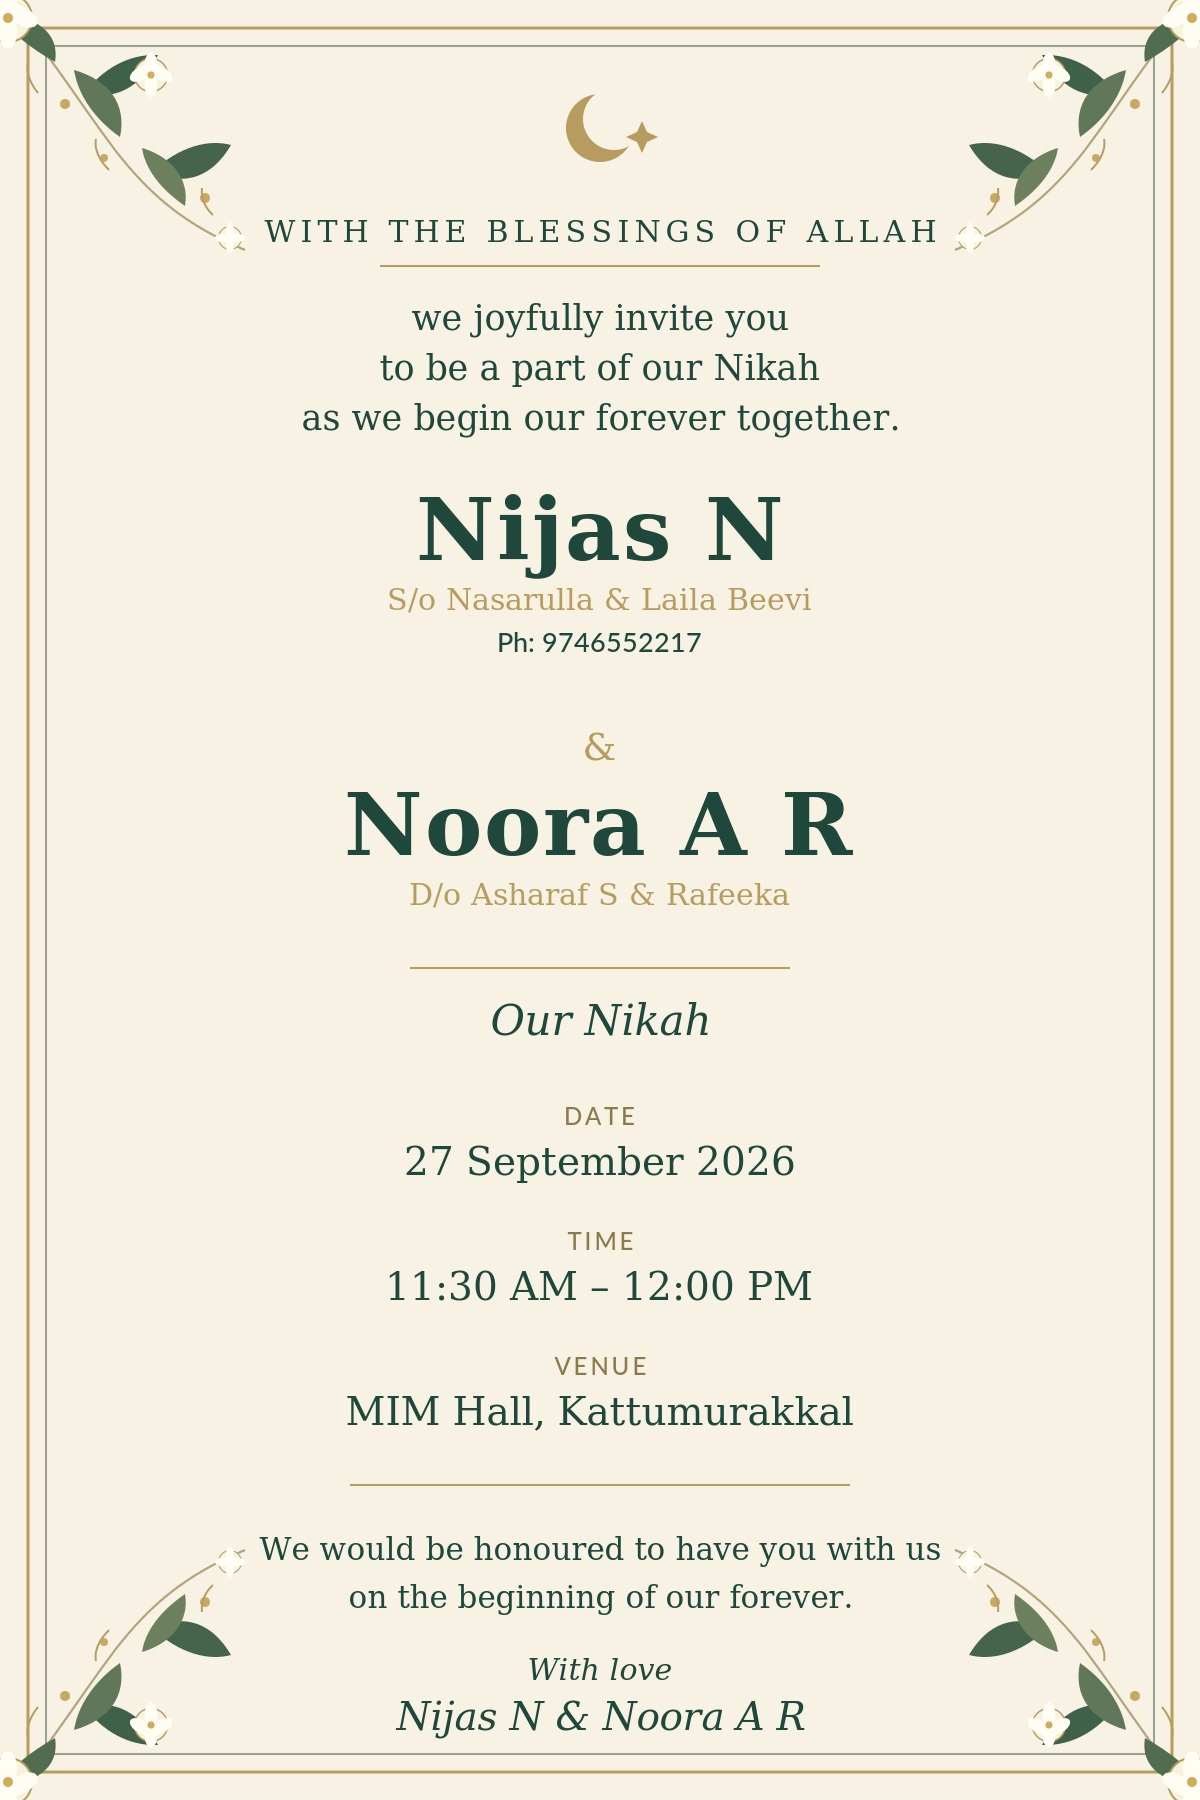
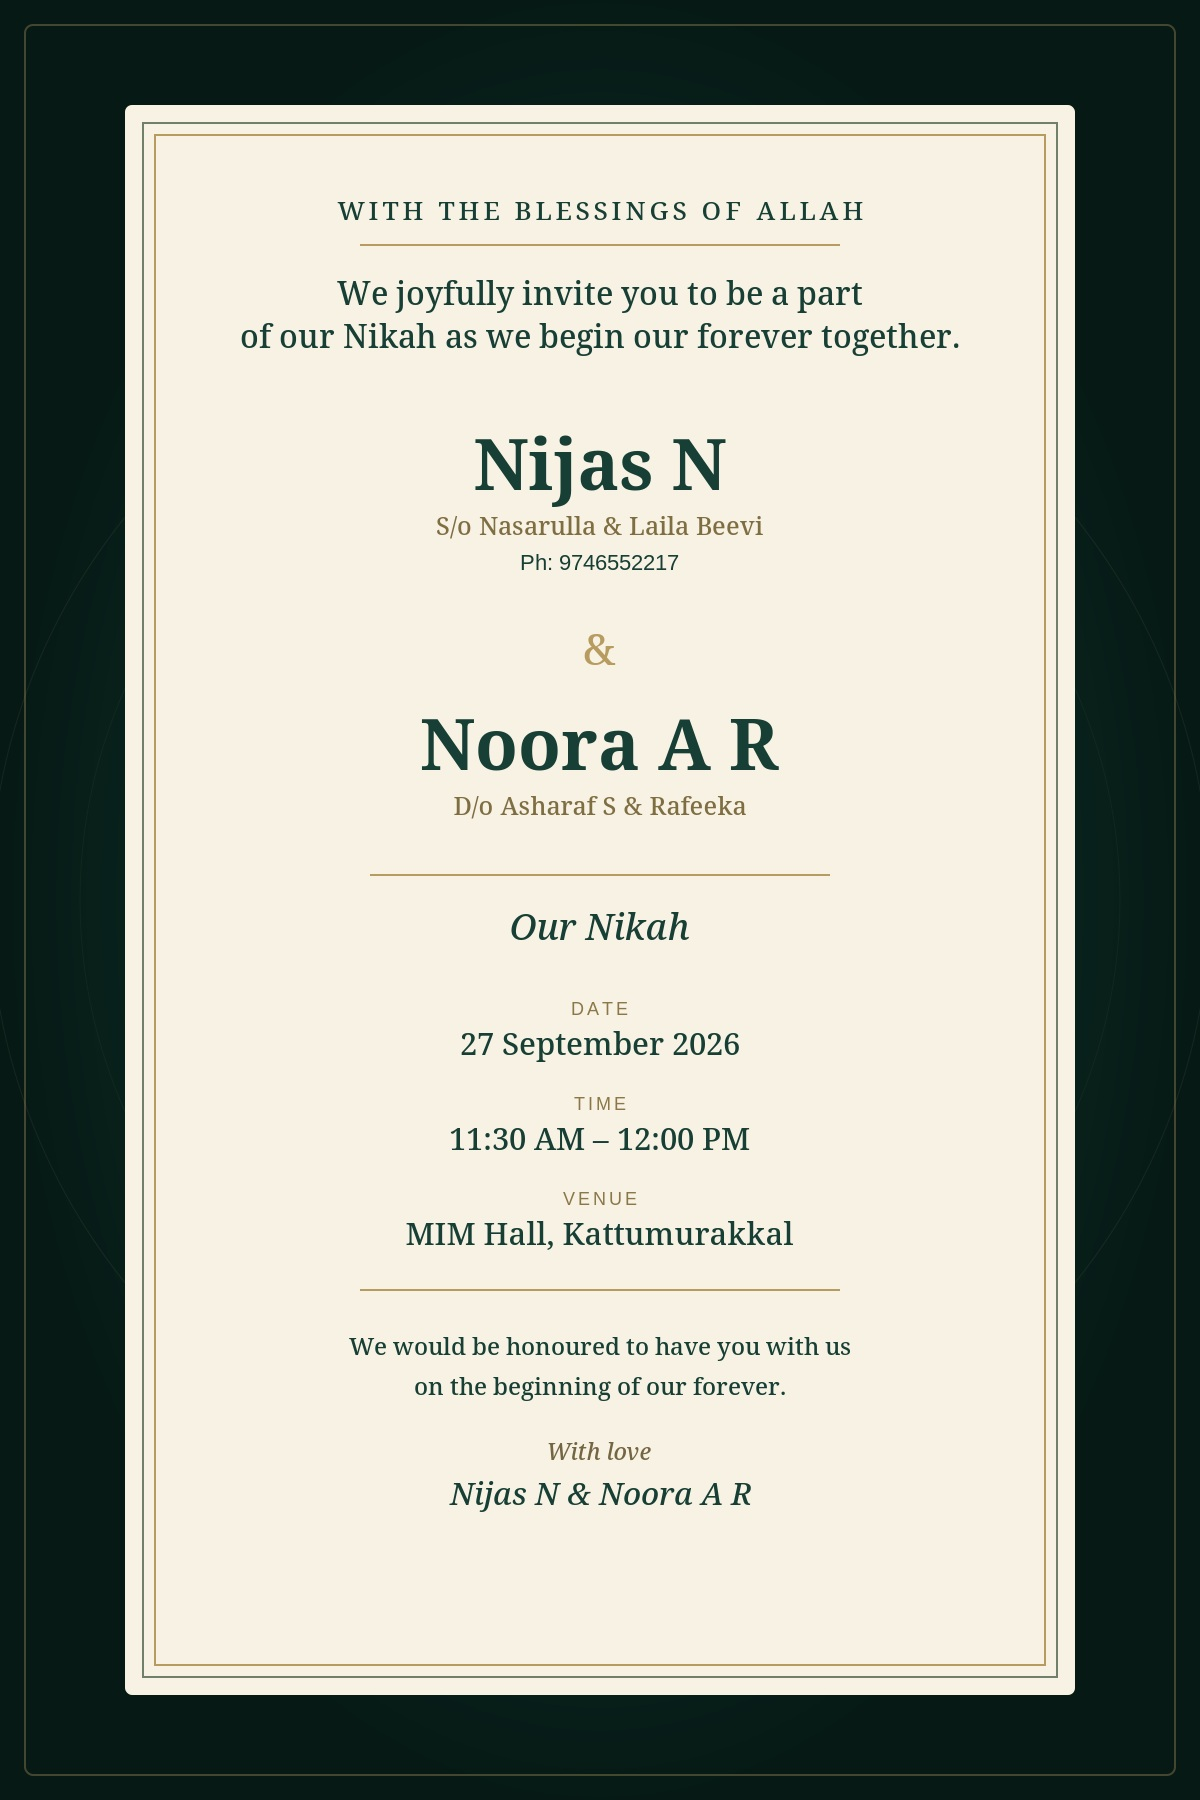
v2

diff --git a/style.css b/style.css
@@ -120,9 +120,24 @@ button,a{font:inherit}
   display:none;
   min-height:100vh;
   padding:34px 18px;
+  position:relative;
+  overflow:hidden;
   background:
-    radial-gradient(circle at 15% 10%,rgba(255,255,255,.55),transparent 20%),
-    linear-gradient(135deg,#eee7d6,#faf7ee 48%,#eee7d6);
+    radial-gradient(circle at 50% 45%,rgba(183,155,95,.18),transparent 18%),
+    radial-gradient(circle at 8% 12%,rgba(255,255,255,.055),transparent 22%),
+    radial-gradient(circle at 92% 88%,rgba(216,194,138,.08),transparent 24%),
+    linear-gradient(135deg,#071d19 0%,#0d3028 42%,#09231f 72%,#061915 100%);
+}
+.invitation:before{
+  content:"";position:absolute;inset:18px;
+  border:1px solid rgba(183,155,95,.24);border-radius:8px;pointer-events:none;
+}
+.invitation:after{
+  content:"";position:absolute;width:76vw;height:76vw;max-width:900px;max-height:900px;
+  border:1px solid rgba(216,194,138,.11);border-radius:50%;left:50%;top:50%;
+  transform:translate(-50%,-50%);
+  box-shadow:0 0 0 70px rgba(216,194,138,.025),0 0 0 140px rgba(216,194,138,.018);
+  pointer-events:none;
 }
 .invitation.show{display:block;animation:reveal .8s ease both}
 @keyframes reveal{from{opacity:0;transform:translateY(20px)}to{opacity:1;transform:none}}
@@ -137,7 +152,7 @@ button,a{font:inherit}
     radial-gradient(circle at 50% 35%,rgba(255,255,255,.55),transparent 36%),
     var(--cream);
   border:2px solid var(--gold);
-  box-shadow:0 22px 70px rgba(29,43,35,.16);
+  box-shadow:0 28px 90px rgba(0,0,0,.38),0 0 0 1px rgba(216,194,138,.12);
   text-align:center;
 }
 .card:before{
@@ -277,3 +292,12 @@ button,a{font:inherit}
   .detail strong{font-size:19px}
   .card:before{inset:9px}
 }
+
+.countdown{width:min(560px,100%);margin:4px auto 0;padding:18px 14px 16px;border-top:1px solid rgba(183,155,95,.5);border-bottom:1px solid rgba(183,155,95,.5);background:rgba(183,155,95,.055)}
+.countdown-title{margin:0 0 13px;color:#8b7747;font-size:10px;letter-spacing:3px;font-weight:600}
+.countdown-grid{display:grid;grid-template-columns:repeat(4,1fr);gap:8px}
+.countdown-grid div{position:relative;display:grid;gap:4px}
+.countdown-grid div+div:before{content:"";position:absolute;left:-5px;top:12%;height:76%;width:1px;background:rgba(183,155,95,.28)}
+.countdown-grid strong{font-family:"Playfair Display",serif;color:var(--forest);font-size:28px;font-weight:500;line-height:1}
+.countdown-grid span{color:#806e43;font-size:9px;letter-spacing:1.4px;text-transform:uppercase}
+@media (max-width:640px){.countdown{padding:15px 7px}.countdown-grid strong{font-size:23px}.countdown-grid span{font-size:8px;letter-spacing:1px}}

diff --git a/script.js b/script.js
@@ -1,19 +1,5 @@
-const openButton = document.getElementById("openInvite");
-const opening = document.getElementById("opening");
-const invitation = document.getElementById("invitation");
-
-openButton.addEventListener("click", () => {
-  opening.animate(
-    [
-      { opacity: 1, transform: "scale(1)" },
-      { opacity: 0, transform: "scale(1.03)" }
-    ],
-    { duration: 650, easing: "ease", fill: "forwards" }
-  );
-
-  setTimeout(() => {
-    opening.style.display = "none";
-    invitation.classList.add("show");
-    window.scrollTo({ top: 0, behavior: "smooth" });
-  }, 580);
-});
+const openButton=document.getElementById("openInvite"),opening=document.getElementById("opening"),invitation=document.getElementById("invitation");
+openButton.addEventListener("click",()=>{opening.animate([{opacity:1,transform:"scale(1)"},{opacity:0,transform:"scale(1.03)"}],{duration:650,easing:"ease",fill:"forwards"});setTimeout(()=>{opening.style.display="none";invitation.classList.add("show");window.scrollTo({top:0,behavior:"smooth"});},580);});
+const targetDate=new Date("2026-09-27T11:30:00+05:30").getTime();
+function updateCountdown(){let d=Math.max(0,targetDate-Date.now());document.getElementById("days").textContent=String(Math.floor(d/86400000)).padStart(2,"0");document.getElementById("hours").textContent=String(Math.floor(d%86400000/3600000)).padStart(2,"0");document.getElementById("minutes").textContent=String(Math.floor(d%3600000/60000)).padStart(2,"0");document.getElementById("seconds").textContent=String(Math.floor(d%60000/1000)).padStart(2,"0");}
+updateCountdown();setInterval(updateCountdown,1000);

diff --git a/index.html b/index.html
@@ -98,6 +98,18 @@
 
         <div class="divider"></div>
 
+        <section class="countdown" aria-label="Countdown to Nikah">
+          <p class="countdown-title">COUNTING DOWN TO OUR NIKAH</p>
+          <div class="countdown-grid">
+            <div><strong id="days">00</strong><span>Days</span></div>
+            <div><strong id="hours">00</strong><span>Hours</span></div>
+            <div><strong id="minutes">00</strong><span>Minutes</span></div>
+            <div><strong id="seconds">00</strong><span>Seconds</span></div>
+          </div>
+        </section>
+
+        <div class="divider"></div>
+
         <p class="closing">
           We would be honoured to have you with us<br>
           on the beginning of our forever.
@@ -106,7 +118,7 @@
         <p class="with-love">With love</p>
         <p class="signature">Nijas N &amp; Noora A R</p>
 
-        <a class="location-btn" href="https://www.google.com/maps/search/?api=1&amp;query=MIM+Hall+Kattumurakkal" target="_blank" rel="noopener">
+        <a class="location-btn" href="https://share.google/KKsekWBUtXmmnYOZW" target="_blank" rel="noopener">
           View Venue
         </a>
       </div>
